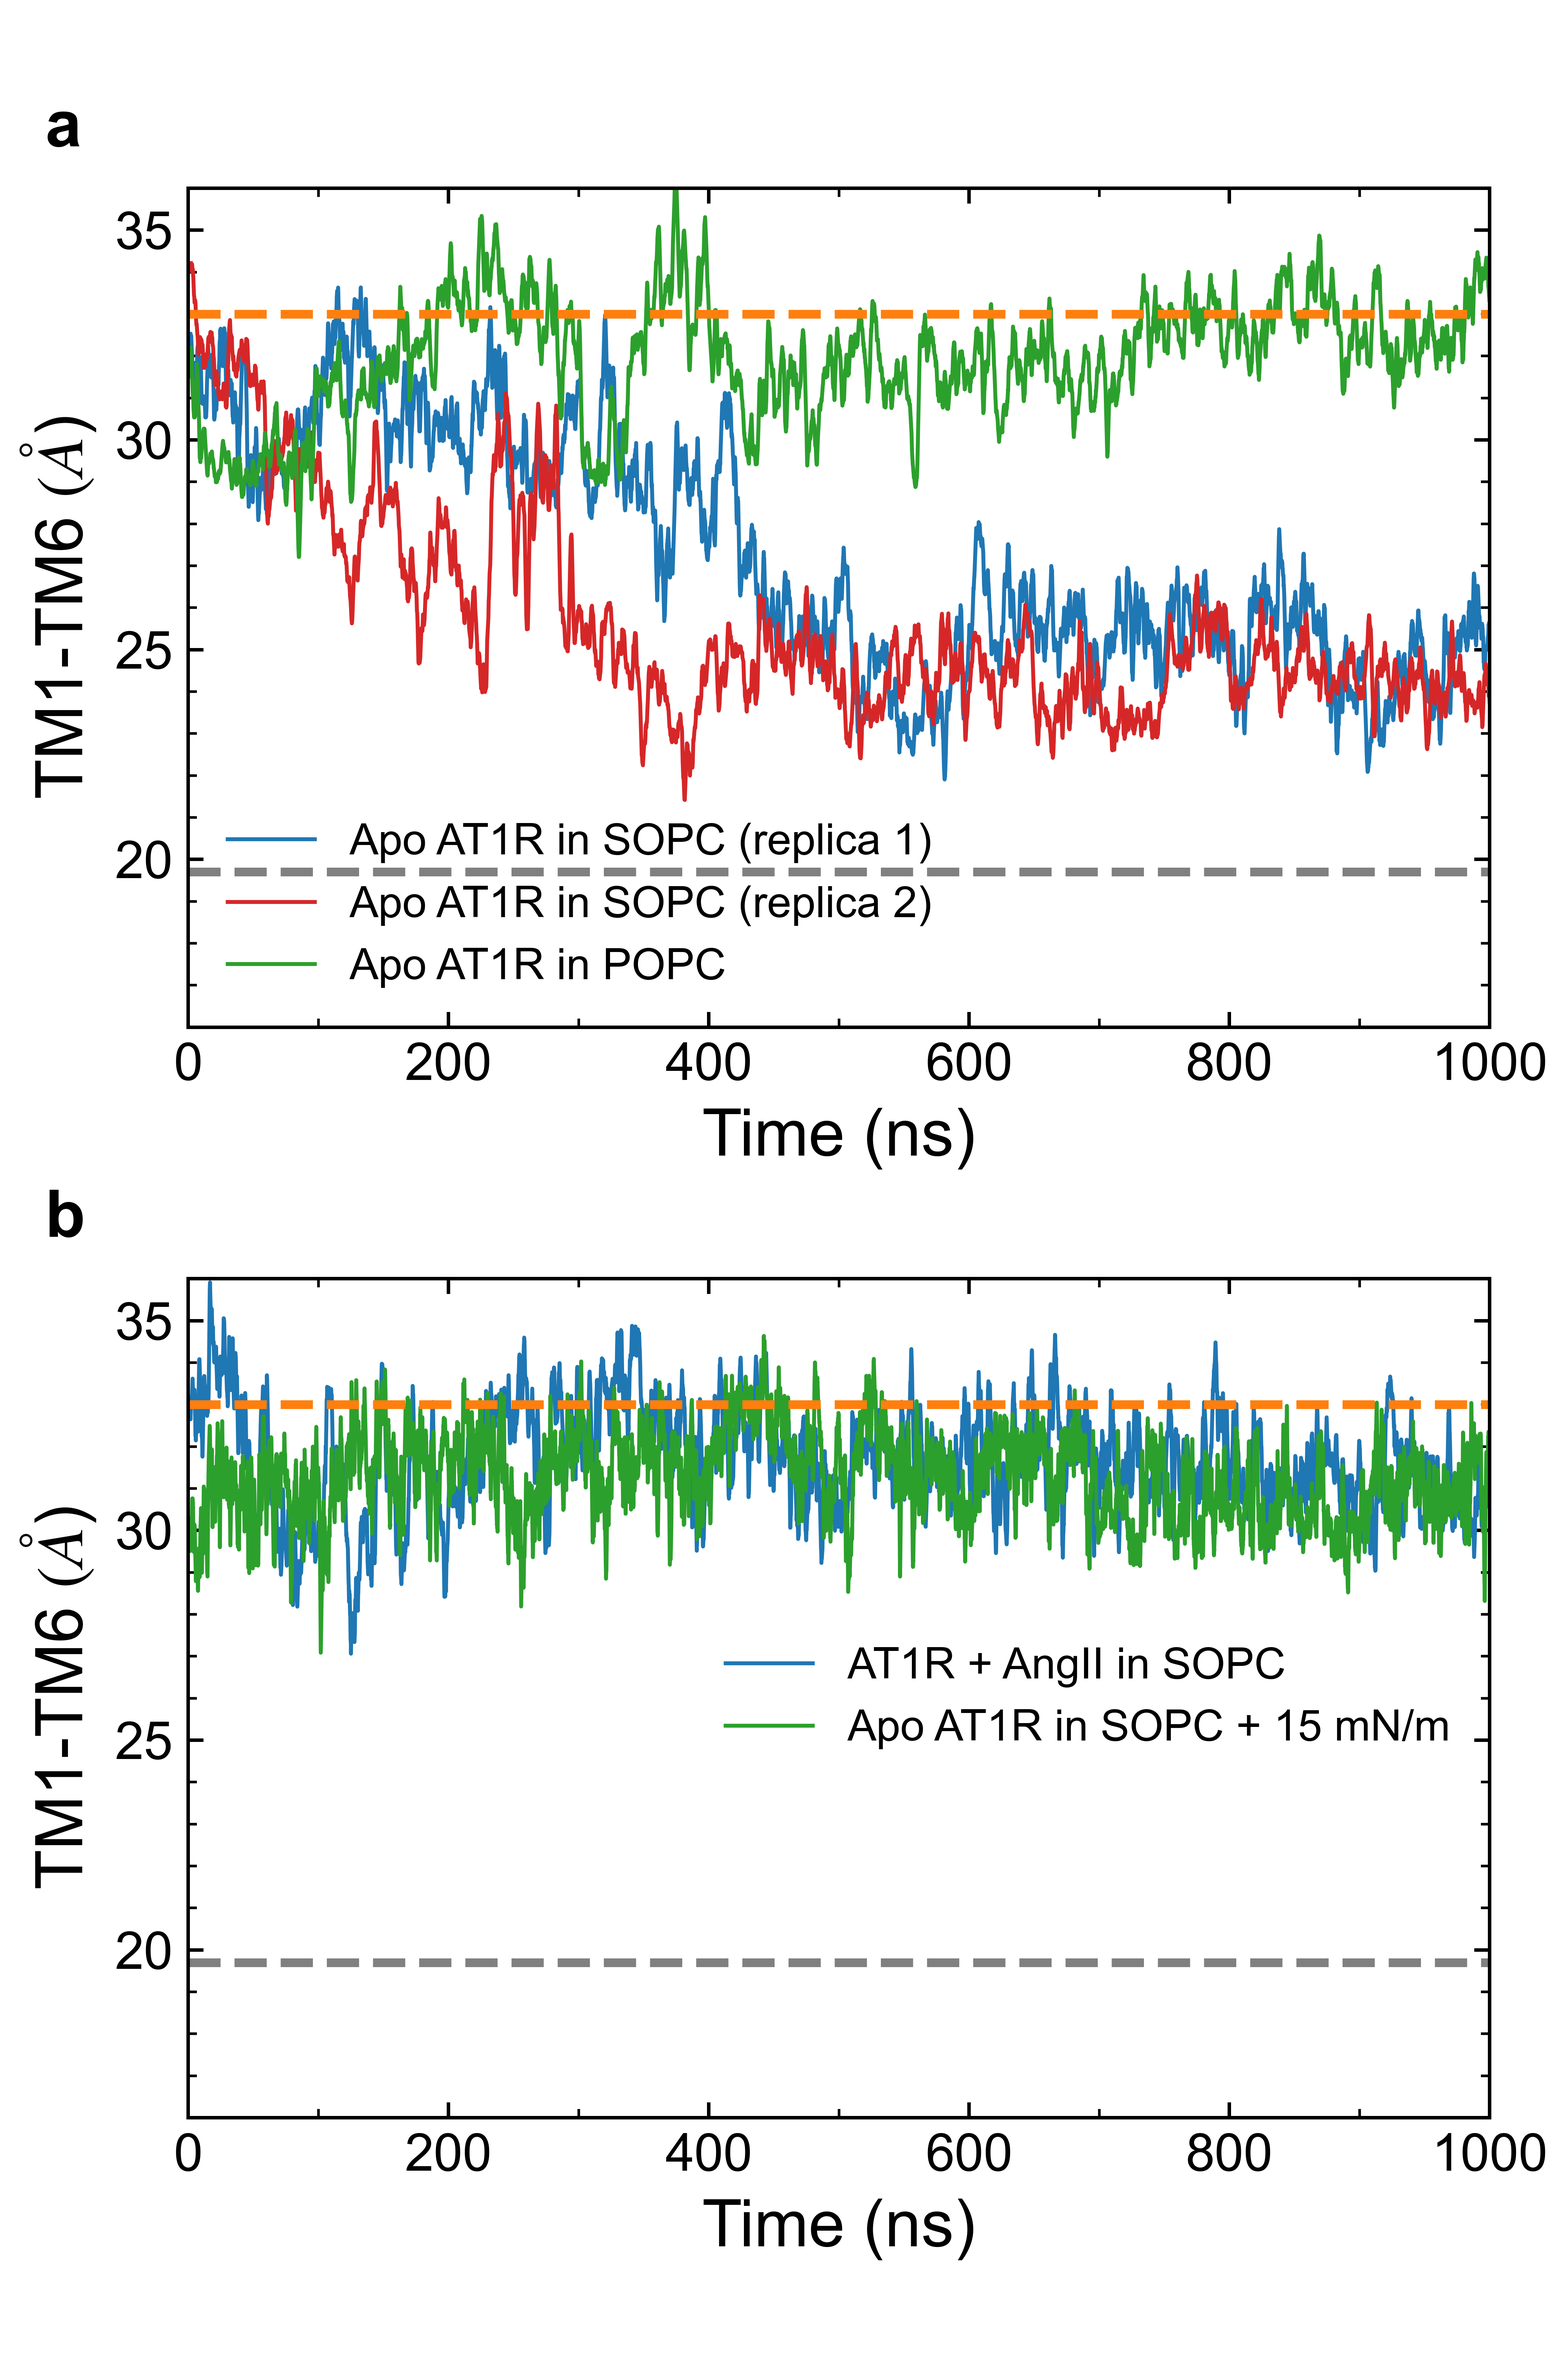
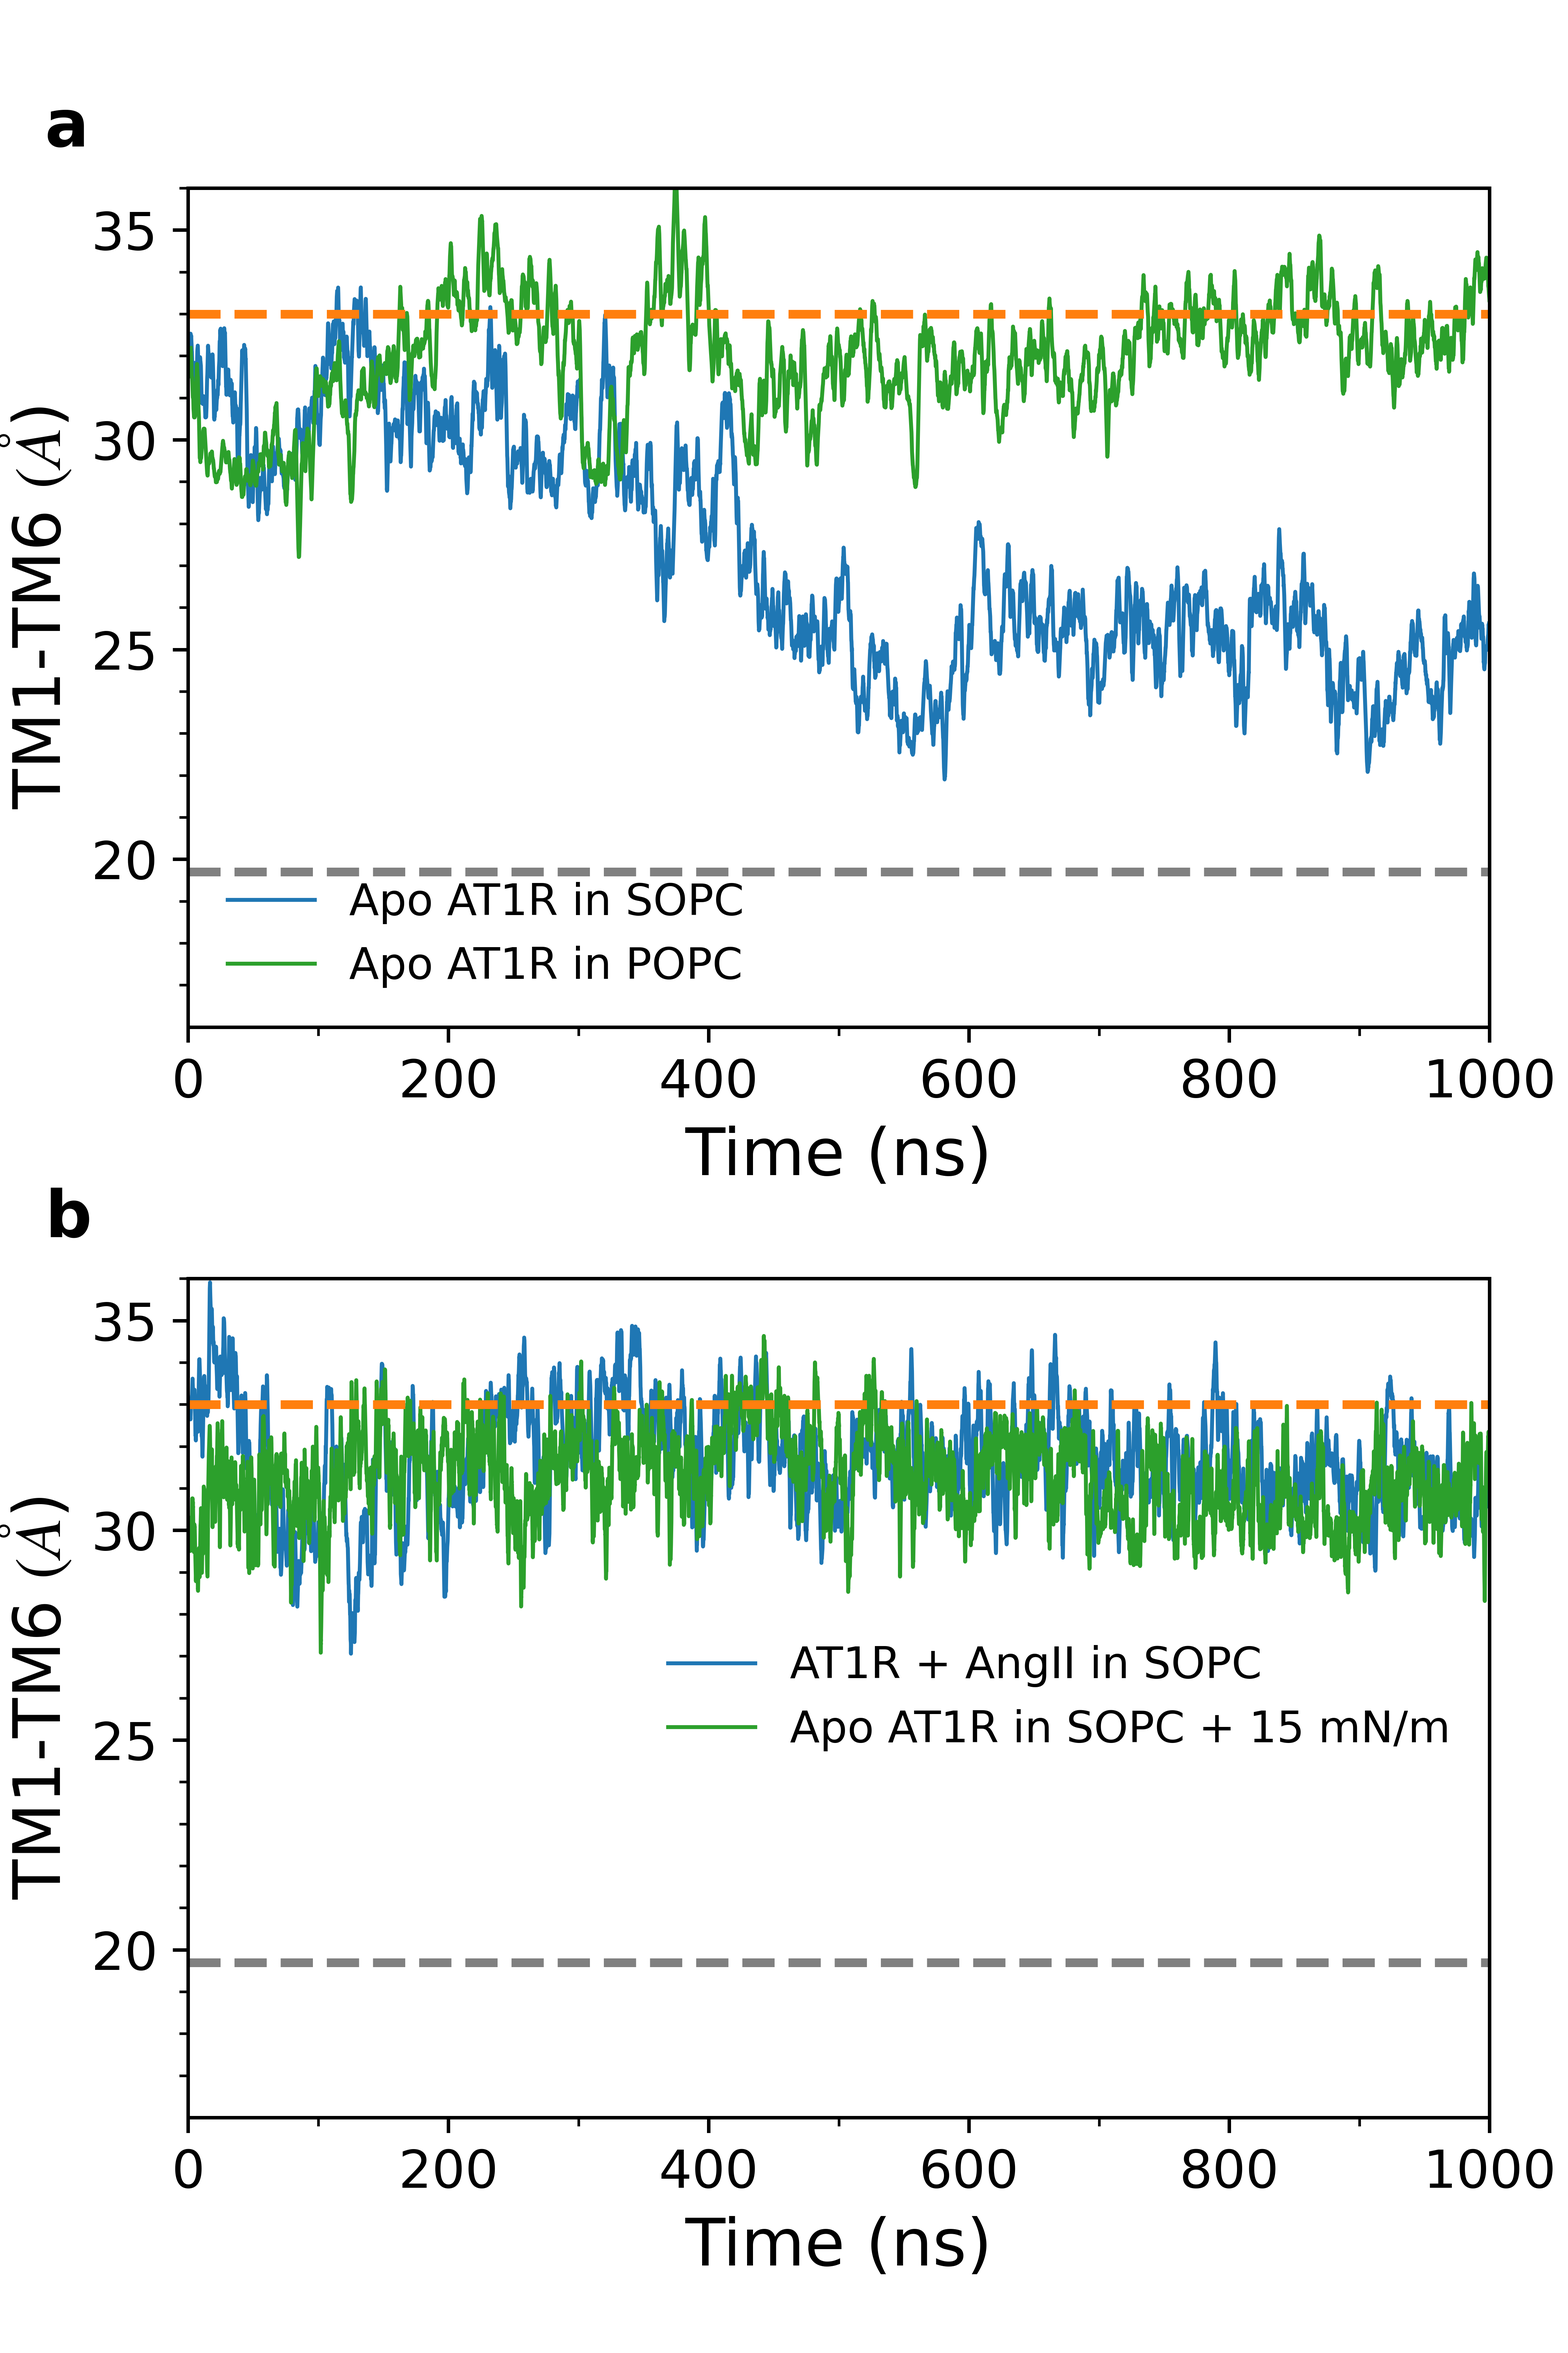
Add files via upload

diff --git a/supplementary_figures/charmm36/charmm36.py b/supplementary_figures/charmm36/charmm36.py
@@ -42,8 +42,8 @@ time=np.linspace(0,1000, len(sopc_apo_anton))
 ax=plt.subplot(2,1,1)
 time_popc=np.linspace(0,1000, len(popc_apo))
 time_sopc=np.linspace(0,1000, len(sopc_apo))
-plt.plot(time_sopc, sopc_apo[['TM1-TM6']].rolling(20).mean()*10, color='tab:blue', label='Apo AT1R in SOPC (replica 1)')
-plt.plot(time, sopc_apo_anton[['TM1-TM6']].rolling(10).mean()*10, color='tab:red', label='Apo AT1R in SOPC (replica 2)' )
+plt.plot(time_sopc, sopc_apo[['TM1-TM6']].rolling(20).mean()*10, color='tab:blue', label='Apo AT1R in SOPC')
+#plt.plot(time, sopc_apo_anton[['TM1-TM6']].rolling(10).mean()*10, color='tab:red', label='Apo AT1R in SOPC (replica 2)' )
 plt.plot(time_popc, popc_apo[['TM1-TM6']].rolling(20).mean()*10,color='tab:green', label='Apo AT1R in POPC')
 plt.text(-110, 37,'a', weight='bold', fontsize=15)
 plt.xlim(0,1000)
